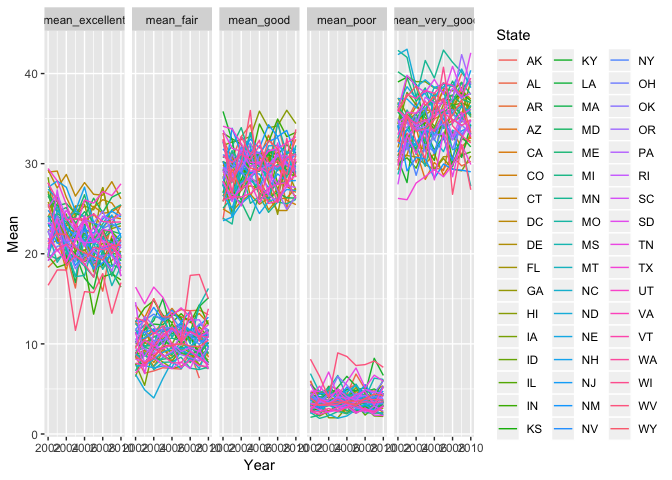
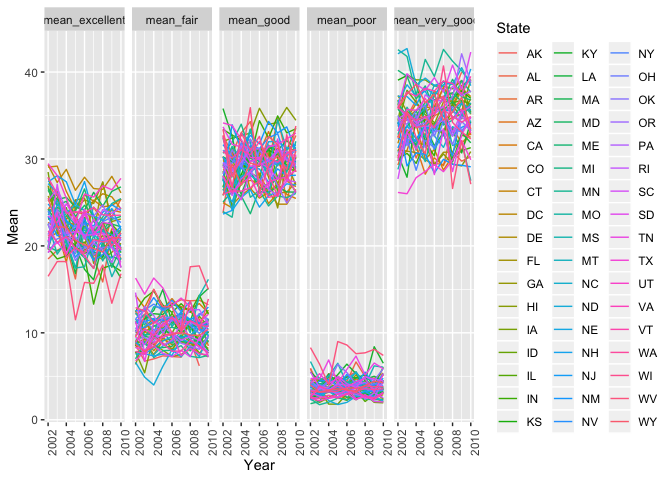
Adding more to my answers and 2nd round of edits

diff --git a/p8105_hw3_gwk2111.md b/p8105_hw3_gwk2111.md
@@ -6,12 +6,16 @@ Zach Keefer
 Problem 1
 ---------
 
+Cleaning the data in order to answer the subsequent questions:
+
 ``` r
 brfss_data = brfss_smart2010 %>% 
   janitor::clean_names() %>%
   filter(topic == "Overall Health") %>% 
   mutate(response = factor(response, levels = c("Excellent", "Very good", "Good", "Fair", "Poor"), ordered = TRUE)) 
 ```
+
+### In 2002, which states were observed at 7 locations?
 
 ``` r
 filter(brfss_data, year == 2002) %>% 
@@ -27,6 +31,10 @@ filter(brfss_data, year == 2002) %>%
     ## 2 FL                       7
     ## 3 NC                       7
 
+In 2002, Connecticut, Florida, and North Carolina were onbserved at 7 locations.
+
+### Make a “spaghetti plot” that shows the number of locations in each state from 2002 to 2010:
+
 ``` r
 group_by(brfss_data, locationabbr, year) %>% 
   summarise(location_freq = n_distinct(geo_location)) %>%  
@@ -38,6 +46,8 @@ group_by(brfss_data, locationabbr, year) %>%
 ```
 
 ![](p8105_hw3_gwk2111_files/figure-markdown_github/unnamed-chunk-3-1.png)
+
+### Make a table showing, for the years 2002, 2006, and 2010, the mean and standard deviation of the proportion of “Excellent” responses across locations in NY State:
 
 ``` r
 filter(brfss_data, year == 2002 | year == 2006 | year == 2010, locationabbr == "NY") %>% 
@@ -54,6 +64,8 @@ filter(brfss_data, year == 2002 | year == 2006 | year == 2010, locationabbr == "
 |  2006|            22.533|  4.001|
 |  2010|            22.700|  3.567|
 
+### For each year and state, compute the average proportion in each response category (taking the average across locations in a state). Make a five-panel plot that shows, for each response category separately, the distribution of these state-level averages over time:
+
 ``` r
 spread(brfss_data, key = response, value = data_value) %>% 
   janitor::clean_names() %>% 
@@ -67,6 +79,7 @@ spread(brfss_data, key = response, value = data_value) %>%
   ggplot(aes(x = year, y = mean)) +
   geom_line(aes(color = locationabbr)) +
   facet_grid(~response) +
+  theme(axis.text.x = element_text(angle = 90, hjust = 1)) +
   labs(y = "Mean",
        x = "Year",
        color = "State")
@@ -82,6 +95,10 @@ instacart = instacart %>%
   janitor::clean_names()
 ```
 
+The following is a data set from Instacart, an online grocery service. It is a collection of over 1 million orders from more than 100,000 Instacart users. There are 1,384,617 obersavtions in the data set, with each observation representing a product from an order, which means one order can produce multiple observations. Furthremore, there are 15 variables in the dataset Of particular interest in this data set are `product_name` (character variable) and `product_id` (numeric variable) which describe the product being ordered, `aisle` (character variable) and `aisle_id` (numeric variable) which describe the aisle that the product is being ordered from, and `order_dow` (numeric variable) and `order_hour_of_day` (numeric variable) which describe the day and time the products were ordered.
+
+### How many aisles are there, and which aisles are the most items ordered from?
+
 ``` r
 count(instacart, aisle_id) %>% 
   nrow()
@@ -90,14 +107,21 @@ count(instacart, aisle_id) %>%
     ## [1] 134
 
 ``` r
-count(instacart, aisle_id) %>% 
-  filter(min_rank(desc(n)) < 2)
+count(instacart, aisle) %>% 
+  filter(min_rank(desc(n)) < 5)
 ```
 
-    ## # A tibble: 1 x 2
-    ##   aisle_id      n
-    ##      <int>  <int>
-    ## 1       83 150609
+    ## # A tibble: 4 x 2
+    ##   aisle                           n
+    ##   <chr>                       <int>
+    ## 1 fresh fruits               150473
+    ## 2 fresh vegetables           150609
+    ## 3 packaged vegetables fruits  78493
+    ## 4 yogurt                      55240
+
+There are 134 total aisles. The two aisles that are the most ordered from are fresh fruits (n = 150,473) and fresh vegetables (n = 150,609).
+
+### Make a plot that shows the number of items ordered in each aisle. Order aisles sensibly, and organize your plot so others can read it.
 
 ``` r
 group_by(instacart, aisle_id) %>% 
@@ -112,6 +136,10 @@ group_by(instacart, aisle_id) %>%
 
 ![](p8105_hw3_gwk2111_files/figure-markdown_github/unnamed-chunk-8-1.png)
 
+Plot is ordered by `aisle_id` (1 to 134).
+
+### Make a table showing the most popular item in each of the aisles “baking ingredients”, “dog food care”, and “packaged vegetables fruits”.
+
 ``` r
 filter(instacart, aisle == "baking ingredients" | aisle == "dog food care" | aisle == "packaged vegetables fruits") %>% 
   group_by(aisle, product_name) %>% 
@@ -125,6 +153,8 @@ filter(instacart, aisle == "baking ingredients" | aisle == "dog food care" | ais
 | baking ingredients         | Light Brown Sugar                             |            499|
 | dog food care              | Snack Sticks Chicken & Rice Recipe Dog Treats |             30|
 | packaged vegetables fruits | Organic Baby Spinach                          |           9784|
+
+### Make a table showing the mean hour of the day at which Pink Lady Apples and Coffee Ice Cream are ordered on each day of the week; format this table for human readers (i.e. produce a 2 x 7 table).
 
 ``` r
 library(lubridate)
@@ -162,23 +192,35 @@ ny_noaa = ny_noaa %>%
   janitor::clean_names()
 ```
 
+The following dataset is pulled from the GHCN (Global Historical Climatology Network)-Daily database, which collects summary statistics from weather stations around the world. This particular dataset contains five core variables (precipitation, snowfall, snow depth, and minimum and maximum temperature) from all New York state weather stations from January 1, 1981 through December 31, 2010. The dataset has 2,595,176 observations and 7 variables (I will add 3 more variables below). The `id` variable is the unique identifier for each weather station, and `date` describes the date of the observation. `Prcp` is precipitation and is measured in tenths of mm, while `snow` (snowfall) and `snwd` (snowdepth) are measured in mm. Finally, `tmax` (maximum temperature) and `tmin` (minimum temperature) are measured in tenths of degress celcius and are character variables. There are a number of missing values in this dataset. There are 145838 missing `prcp` values, 381221 missing `snow` values, 591786 missing `snwd` values, 1134358 missing `tmax` values, and 1134420 missing `tmin` values.
+
+### Create separate variables for year, month, and day. Ensure observations for temperature, precipitation, and snowfall are given in reasonable units. For snowfall, what are the most commonly observed values? Why?
+
 ``` r
 ny_noaa = ny_noaa %>% 
   mutate(year = year(date),
        month = month(date, label = TRUE),
        day = lubridate::floor_date(date, unit = "day"),
+       ##Precipitation is originally given in tenths of mm, so divide by 10 to make it more familiar
        prcp = prcp/10,
+       ##Convert tmin to numeric, and then divide by 10 to make into degrees.
        tmin = (as.numeric(tmin))/10,
+       ##Convert tmax to numeric, and then divide by 10 to make into degrees.
        tmax = (as.numeric(tmax))/10) 
  
 count(ny_noaa, snow) %>%
-  filter(min_rank(desc(n)) < 2) 
+  filter(min_rank(desc(n)) < 3) 
 ```
 
-    ## # A tibble: 1 x 2
+    ## # A tibble: 2 x 2
     ##    snow       n
     ##   <int>   <int>
     ## 1     0 2008508
+    ## 2    NA  381221
+
+For snowfall, the most commonly observed variables are `0` (n = 2,008,508) and `NA` (n = 381,221). Since observations are daily, and the majority of days in New York State there is no snowfall, we would expect to see `0` as the most obvserved variable. Furthermore, there is a high number of missing observations throughout the data, so it is not surprising that `NA` is the second more observed variable.
+
+### Make a two-panel plot showing the average max temperature in January and in July in each station across years. Is there any observable / interpretable structure? Any outliers?
 
 ``` r
 filter(ny_noaa, month == "Jan" | month == "Jul") %>% 
@@ -187,7 +229,9 @@ filter(ny_noaa, month == "Jan" | month == "Jul") %>%
   ggplot(aes(x = year, y = mean_temp)) +
   geom_point() +
   geom_smooth() +
-  facet_grid(~month)
+  facet_grid(~month) +
+  labs(x = "Year",
+       y = "Mean Temperature")
 ```
 
     ## `geom_smooth()` using method = 'gam' and formula 'y ~ s(x, bs = "cs")'
@@ -197,6 +241,10 @@ filter(ny_noaa, month == "Jan" | month == "Jul") %>%
     ## Warning: Removed 7058 rows containing missing values (geom_point).
 
 ![](p8105_hw3_gwk2111_files/figure-markdown_github/unnamed-chunk-13-1.png)
+
+Based on the plots, there seems to be more variation in average max temperature in January than there is July. There are a few utlier station temperatures, especially one particularly low temperature in July, 1988. In addition, January, 1994 was a biot of an outlier in terms of average temperature and seems to have contributed to the variance of January temperatures.
+
+### Make a two-panel plot showing (i) tmax vs tmin for the full dataset (note that a scatterplot may not be the best option); and (ii) make a plot showing the distribution of snowfall values greater than 0 and less than 100 separately by year.
 
 ``` r
 library(hexbin)
@@ -212,13 +260,17 @@ library(ggridges)
 
 ``` r
 library(patchwork)
-tmax_tmin_p = ggplot(ny_noaa, aes(x = tmax, y = tmin)) +
+tmax_tmin_p = ggplot(ny_noaa, aes(x = tmin, y = tmax)) +
+  ##With the high number of points, used geom_hex to avoid overplotting.
   geom_hex() 
 
 snowfall_p = filter(ny_noaa, snow > 0 & snow < 100) %>%
   mutate(year = as.character(year)) %>% 
   ggplot(aes(x = snow, y = year)) + 
-  geom_density_ridges() 
+  ##Used geom_density because we have a lot of categories where the shape of the distribution matters.
+  geom_density_ridges() +
+  labs(x = "Snowfall (mm)",
+       y = "Year")
 
 (tmax_tmin_p + snowfall_p)
 ```
